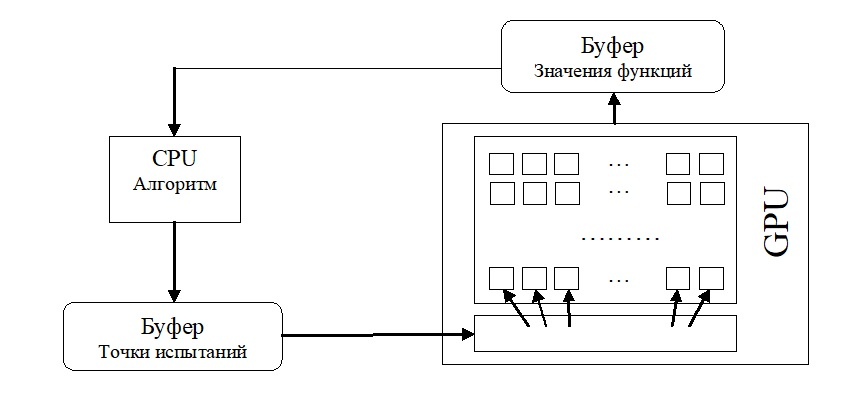
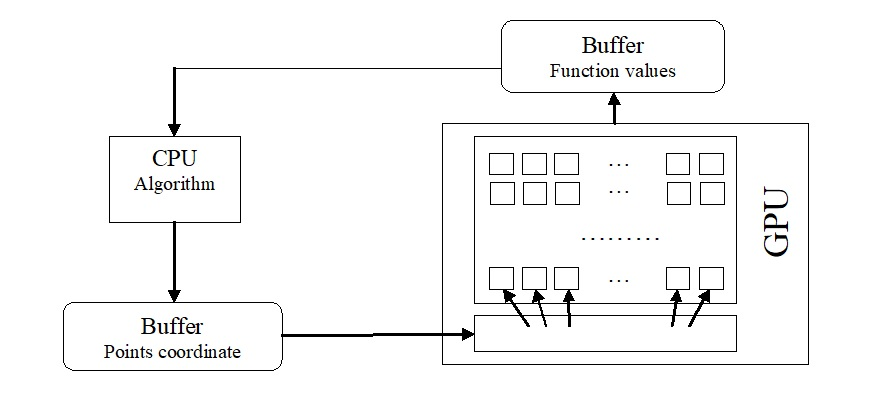
Поправлен текст. Заменена картинка, добавлен исходный документ с картинкой.

diff --git a/2019/RSD_Integer/RSD2019.tex b/2019/RSD_Integer/RSD2019.tex
@@ -359,14 +359,14 @@ This generator of multiextremal functions is often used for the investigations o
 \end{enumerate}
 
 
-In the problems generated in our experiments, there were 5 integer  and 6 continuous parameters. Дискретные параметры имеют по 4 значения, таким образом имеем \textit{S} = 1024 возможных значения. The accuracy of the search was equal to $10^{-2}$.  С помощью GKLS-генератора создавалось 100 шестимерных задач. 
+In the problems generated in our experiments, there were 5 integer  and 6 continuous parameters. Дискретные параметры имеют по 4 значения, таким образом имеем \textit{S} = 1024 возможных значения. С помощью GKLS-генератора создано 100 шестимерных задач, которые были преобразованы в смешанные 11-ти мерные задачи. The accuracy of the search was equal to $10^{-2}$.   
 Computational experiments were carried out on Lobachevsky supercomputer. The node of 
 supercomputer included two Intel Sandy Bridge E5-2660 2.2 GHz CPUs and 64 Gb RAM. The 
 CPU had 8 cores, i.e. each node had a total of 16 cores and two NVIDIA Kepler K20Х GPUs.
 
 
 
-В Table \ref{tab:2} приведены результаты экспериментов на CPU с использованием OpenMP. Использовалось 1, 8 и 16 потоков. 16 потоков соответствуют полной загрузке CPU на узле кластера. Приведено среднее число итераций требуемое для решения задачи, среднее время решения и ускорение по времени по отношению к последовательному запуску. За одну итерации проводилось столько же испытаний сколько использовалось потоков.
+В Table \ref{tab:2} приведены результаты экспериментов на CPU с использованием OpenMP. Использовалось 1, 8 и 16 потоков. Приведено среднее число итераций требуемое для решения задачи, среднее время решения (в секундах) и ускорение по времени по отношению к последовательному запуску. За одну итерацию проводилось столько же испытаний сколько использовалось потоков.
 
 \begin{table}
 	\caption{Результаты экспериментов на CPU}
@@ -386,9 +386,9 @@ CPU had 8 cores, i.e. each node had a total of 16 cores and two NVIDIA Kepler K2
 \end{table}
 
 
-Наблюдается почти линейное ускорение по итерациям и значительное ускорение по времени решения задачи.
+Как видно из Table \ref{tab:2} , наблюдается почти линейное ускорение по итерациям и значительное ускорение по времени решения задачи. В среднем при последовательном решение задачи требовалось 1,5 часа.
 
-В Table \ref{tab:3} приведены результаты экспериментов на GPU с использованием CUDA. Использовалось 256, 512 и 1024 нитей. Приведено среднее число итераций требуемое для решения задачи, среднее время решения и ускорение по времени по отношению к полной загрузке CPU на узле кластера. За одну итерации проводилось столько же испытаний сколько использовалось нитей.
+В Table \ref{tab:3} приведены результаты экспериментов на GPU с использованием CUDA. Использовалось 256, 512 и 1024 нитей. Приведено среднее число итераций требуемое для решения задачи, среднее время решения (в секундах) и ускорение по времени по отношению к полной загрузке CPU на узле кластера. За одну итерации проводилось столько же испытаний сколько использовалось нитей.
 
 \begin{table}
 	\caption{Результаты экспериментов на GPU}
@@ -408,7 +408,7 @@ CPU had 8 cores, i.e. each node had a total of 16 cores and two NVIDIA Kepler K2
 	\end{tabular}
 \end{table}
 
-Наблюдается значительное ускорение. Ускорение по отношению к последовательному запуску составило 182.
+Наблюдается значительное ускорение как по числу итераций, так и по времени. В среднем решение задачи (при 1024 нитях) потребовало 30 секунд. Таким образом, ускорение по отношению к последовательному запуску составило 182.
 
 %All problems of the series have been solved successfully and for solving the problems based on the \textit{Simple} class 11988 trials in average were required whereas for solving the problems based on the \textit{Hard} class 24750 trials were required.
 
